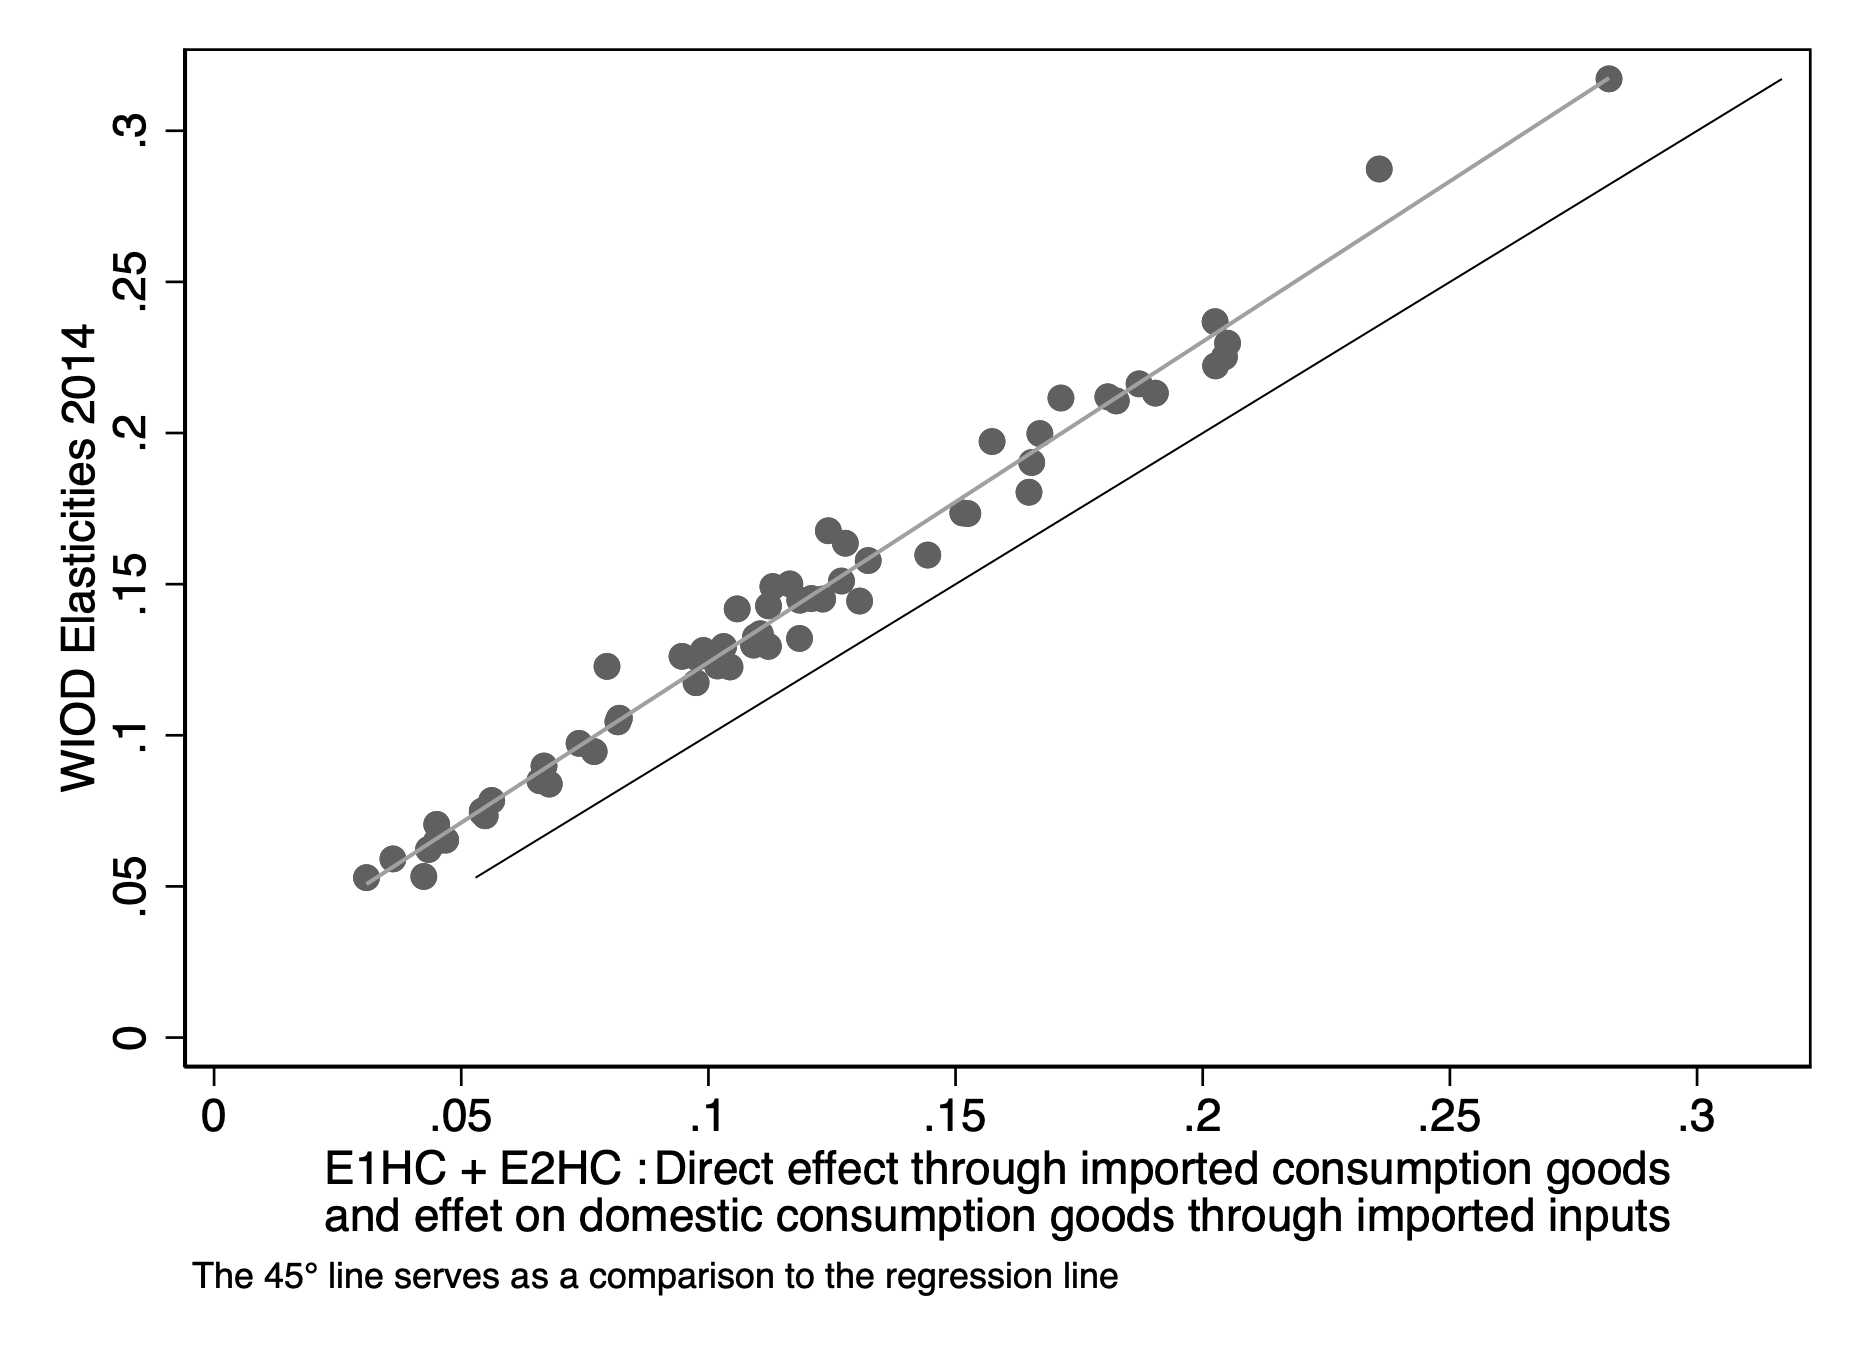
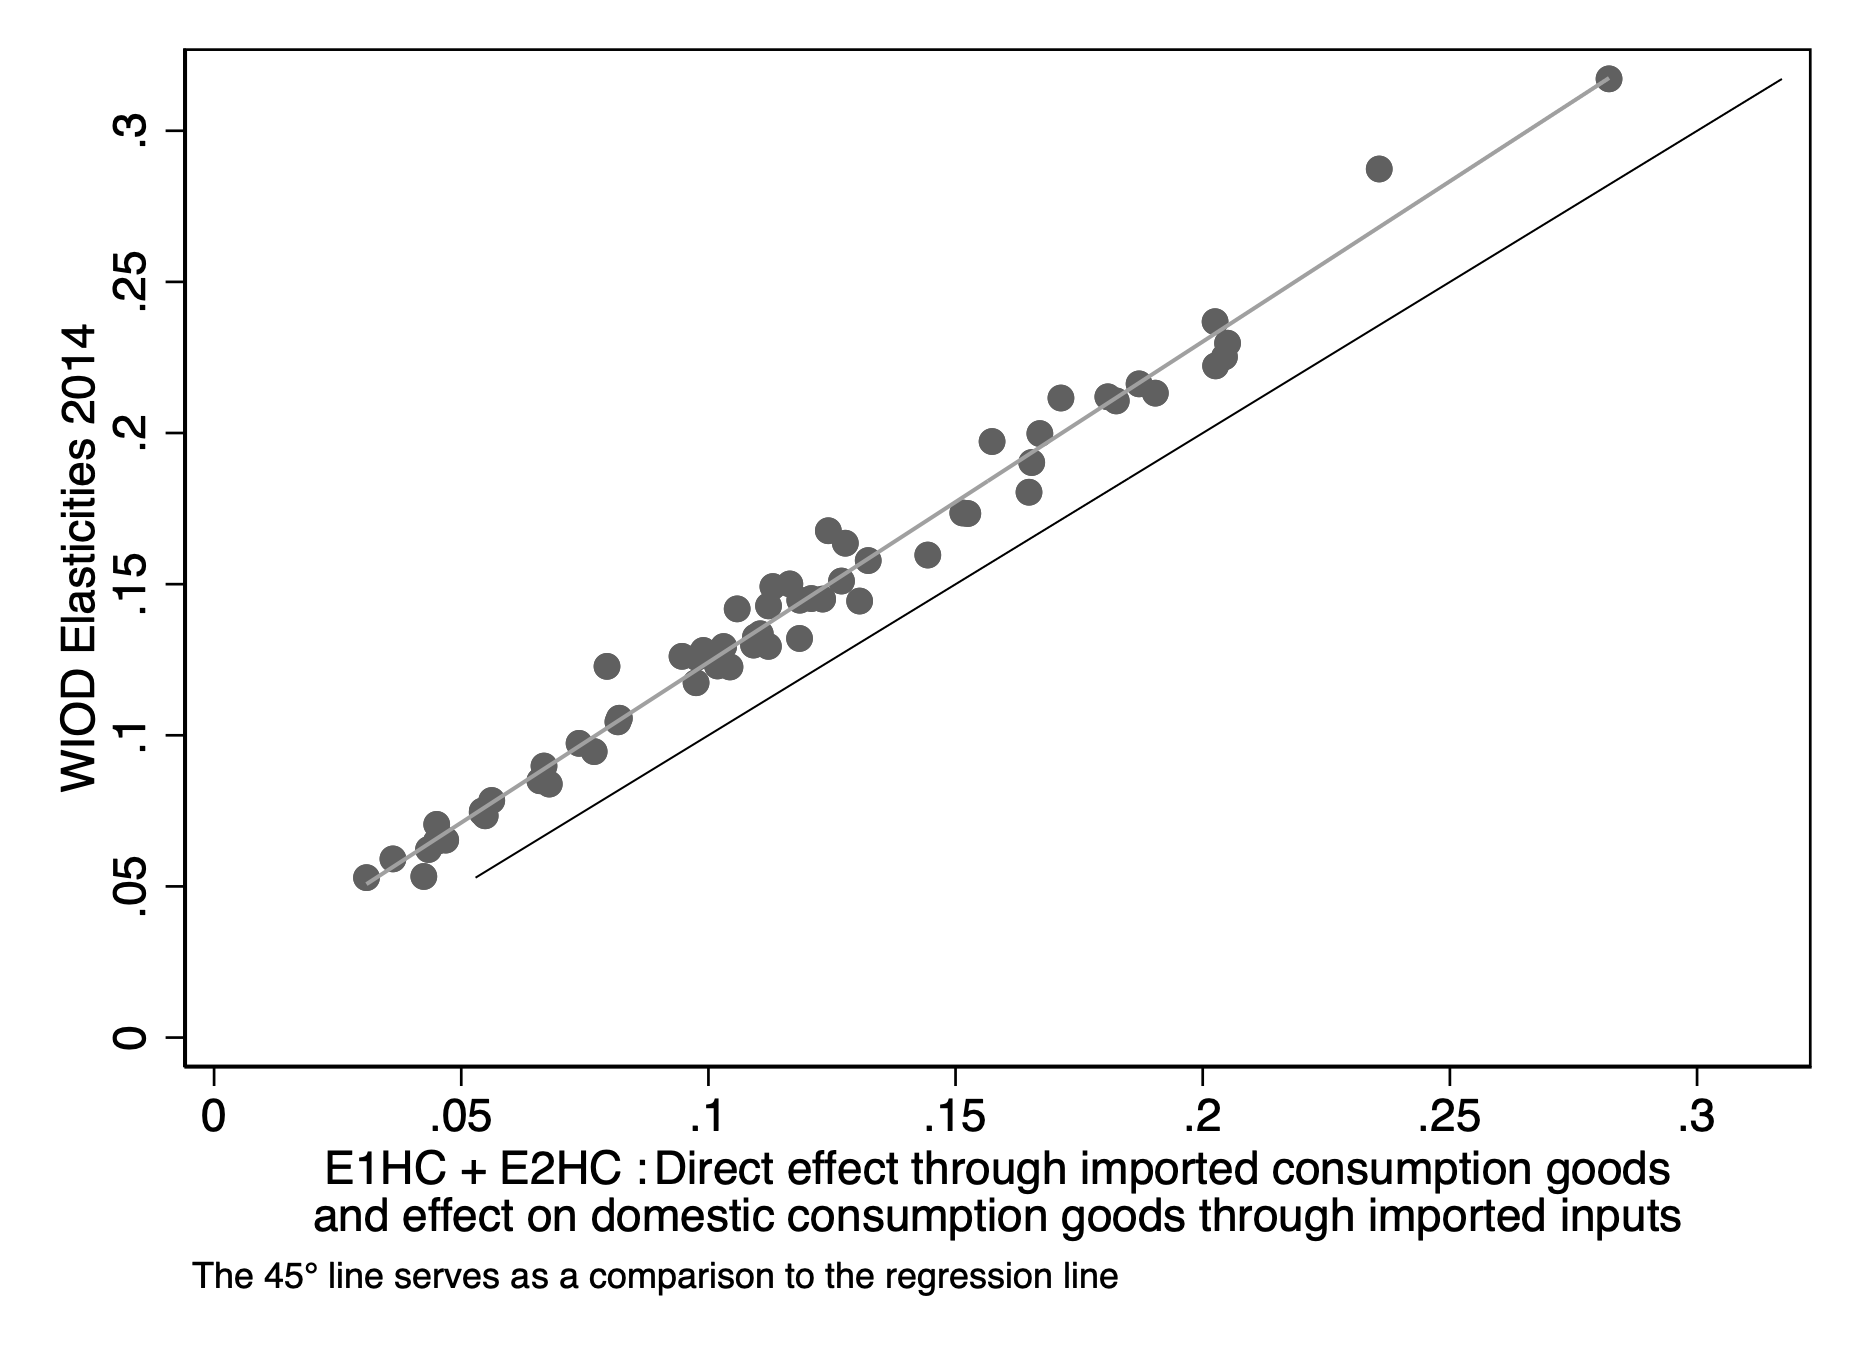
Erreur graph 9

Changed region(s): [[0.1559, 0.8698, 0.9043, 0.932]]

diff --git a/Rédaction/PIWIM_2018.tex b/Rédaction/PIWIM_2018.tex
@@ -627,7 +627,7 @@ Imported final consumer goods also explain the differences in price elasticities
 
 \begin{figure}[!h]
 	\centering
-	\caption{\footnotesize{\textbf{Contribution of imported and domestic goods to the elasticity of consumer prices to a 100\% exchange rate appreciaton}}}
+	\caption{\footnotesize{\textbf{Contribution of imported and domestic final goods and services to the CPI elasticity to an exchange rate shock}}}
 	\begin{tabular}{c}
 		\includegraphics[width=4.5in, height=3in]
 		{decomp_origine_WIOD_2014.png}\\
@@ -649,7 +649,7 @@ Similarly, domestic core inflation (all products except food and energy) account
 
 \begin{figure}[!h]
 	\centering
-	\caption{\footnotesize{\textbf{Contribution of different products to the elasticity of consumer prices}}}
+	\caption{\footnotesize{\textbf{Contribution of different products to the CPI elasticity to an exchange rate shock}}}
 	\begin{tabular}{c}
 		\includegraphics[width=4.5in, height=3in]
 		{decomp_sect.png}\\
@@ -830,15 +830,14 @@ With the exception of 2009, the relationship is broadly stable (see Figures \ref
 We obtain similar results with TiVA (see Appendix \ref{AppendixFonctionLinéaireTIVA}). 
 % je suggère de retirer cette phrase pour simplifier l'exposé, ou éventuellement d'en faire une note de bas de page
 %The functional form might seem a bit counterintuitive (one might expect that the elasticity is affine function of openness as summarized by E1), but the analytical examination of the two-country, one sector case, shows that it is plausible (see Appendix \ref{AnalyticalAppendix}).
-Our results suggest that we can approximate the elasticity of consumer prices for the most recent years, using the share of imported goods in household consumption and the share of imported inputs in household consumption of domestic goods.
+Our results suggest that we can approximate the elasticity of consumer prices for the most recent years, using the share of imported goods in household consumption and the share of imported inputs in household consumption of domestic goods.\footnote{The functional form might seem a bit counterintuitive (one might expect that the elasticity is affine function of openness as summarized by E1), but the analytical examination of the two-country, one sector case, shows that it is plausible (see Appendix \ref{AnalyticalAppendix})}
 %Back to the main point, it turns out that we do not gain much by inversing matrixes. Of course, this realization is only possible because we were able to computes $\overline{s}_{i}^{i,HC}$ in the first place. Still, it suggests that we could extrapolate the elasticities for not-yet-released years, as long as we have the share of imported goods in household consumption and the share of imported inputs in household consumption of domestic goods. 
 
 \subsection{Doing without TiVA and WIOD, but keeping Eurostat}
 However, these data are not up-to-date for a large number of countries. 
 These shares are not routinely computed by national statistical institutes. 
 We have to use a proxy. It is fairly easy to identify consumption and intermediary goods imports using UN Comtrade data and the BEC classification. 
-While the World Bank provides regular estimates for household consumption, it does not provide an estimate for intermediate consumptions. In the case of European countries\footnote{And some others for selected years}, Eurostat provides estimates for intermediate consumptions.%\footnote{préciser la source}.
-%  faute d'orthograpphe dans la légende des abscisses du titre 9: effect et pas effet
+While the World Bank provides regular estimates for household consumption, it does not provide an estimate for intermediate consumptions. Eurostat provides estimates for intermediate consumptions in the case of European countries\footnote{And some others for selected years -- préciser la source}. 
 Combining these three data sources, we compute the share of imported consumption goods in household consumption and the share of imported inputs in all inputs. 
 
 We mimick equation \ref{eq:eq7} by equation \ref{eq:eq8}. 
